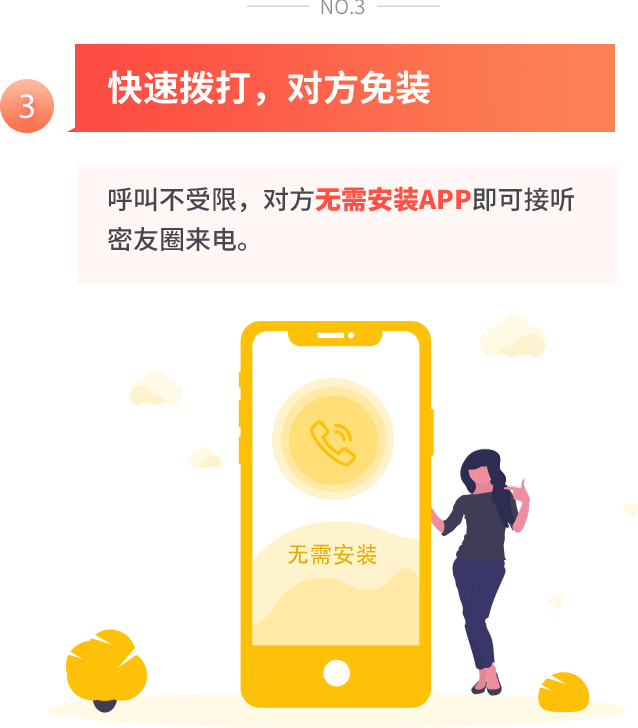
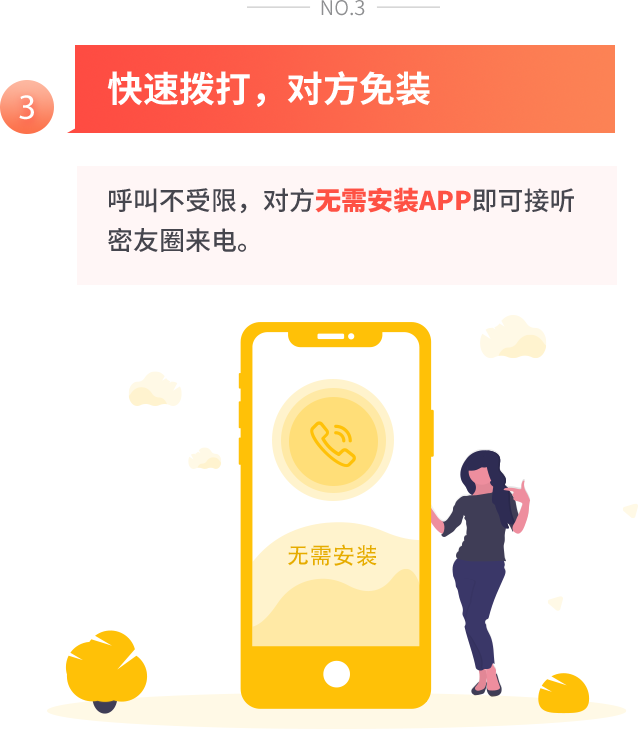
图片替换

diff --git a/promotion/css/main.css b/promotion/css/main.css
@@ -38,14 +38,14 @@ img {
 }
 .content-middle{
     width: 6.21rem;
-    height: 7.22rem;
+    height: 7.25rem;
     display: block;
     margin: 0 auto;
     margin-bottom: 0.45rem;
 }
 .content-bottom{
     width: 6.38rem;
-    height: 7.28rem;
+    height: 7.29rem;
     display: block;
     margin: 0 auto;
 }
